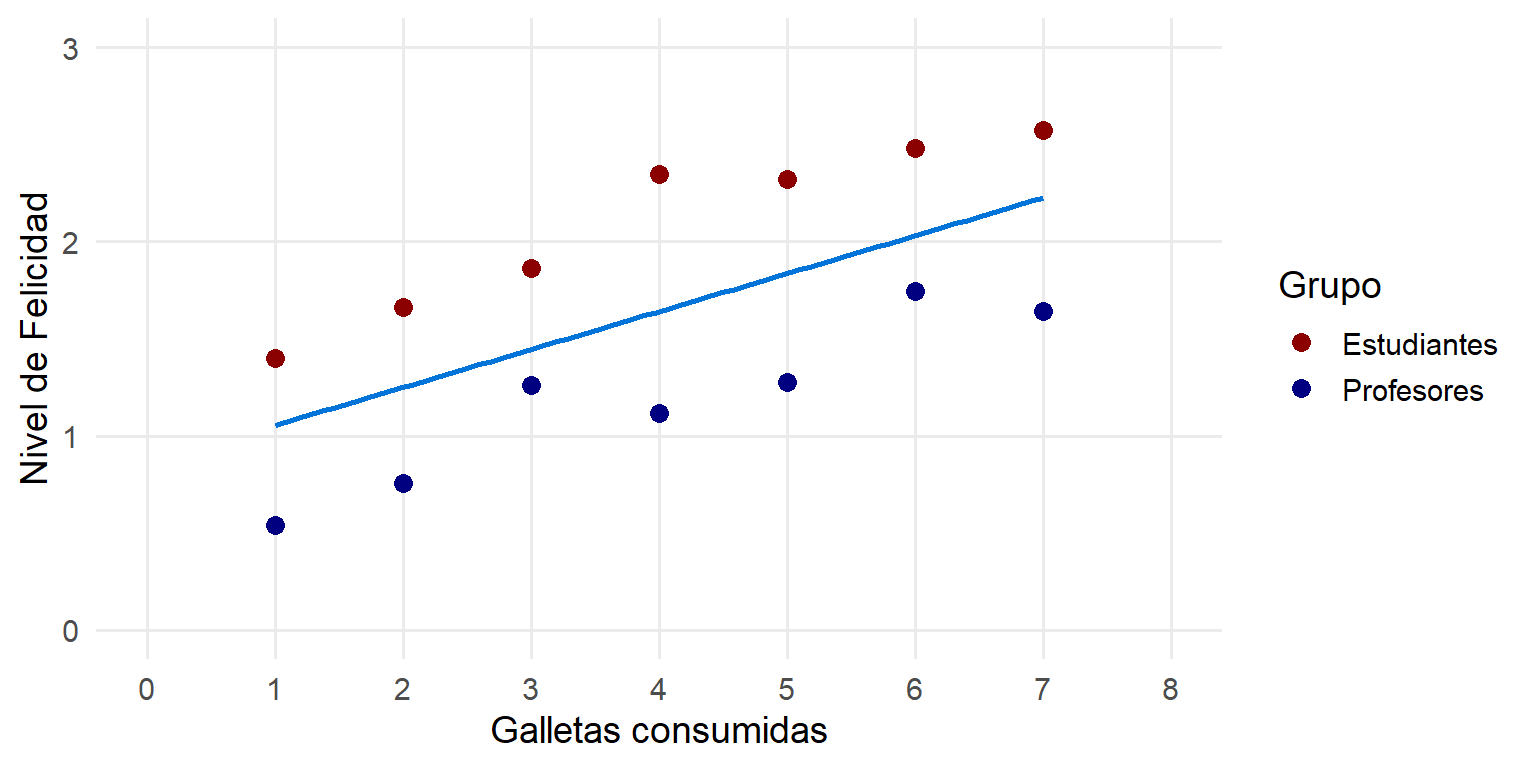
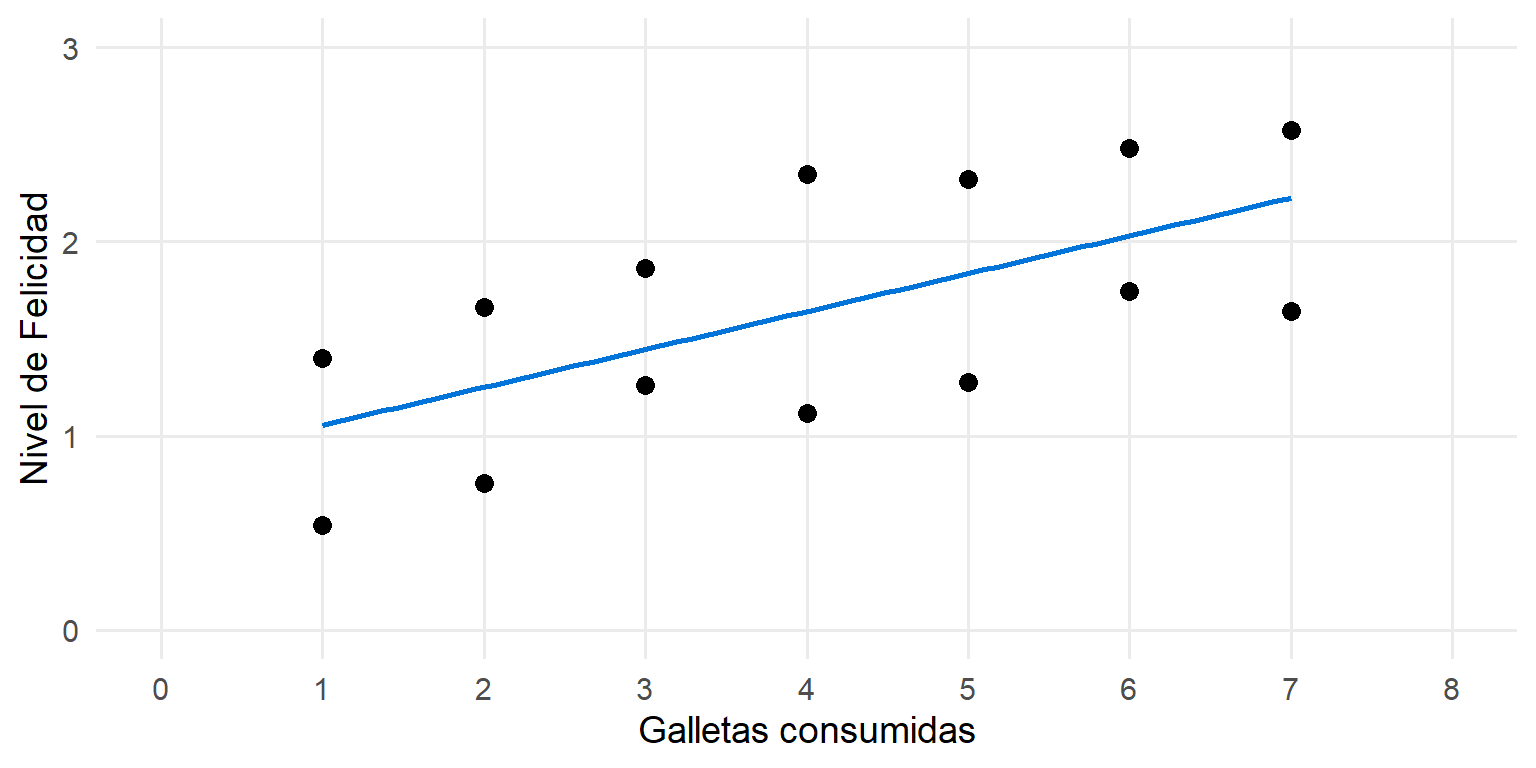
Finihing slide 08

diff --git a/diapositivas/08_reg_lin/index.html b/diapositivas/08_reg_lin/index.html
@@ -1366,18 +1366,110 @@ y &amp;= \color{#0074D9}{\text{Modelo}} + \color{#FF851B}{\text{Error}} \\
 <h2>Variables Categóricas vs Variables Continuas</h2>
 
 <img data-src="img/slider-switch-annotated-80.jpg" style="width:100.0%" class="r-stretch quarto-figure-center"></section>
-<section id="ejemplo-de-felicidad-y-galletas" class="slide level2">
-<h2>Ejemplo de felicidad y galletas</h2>
+<section id="galletas-felicidad-estudiantes-y-profesores" class="slide level2 medium">
+<h2>Galletas, Felicidad, Estudiantes y Profesores</h2>
+<div class="tbl-classic tbl-larger center-text">
+<div class="cell">
+<div class="cell-output-display">
+<table class="table" data-quarto-postprocess="true" style="font-size: 25px; margin-left: auto; margin-right: auto;">
+<thead>
+<tr class="header">
+<th style="text-align: right;" data-quarto-table-cell-role="th">galletas</th>
+<th style="text-align: right;" data-quarto-table-cell-role="th">felicidad</th>
+<th style="text-align: right;" data-quarto-table-cell-role="th">estudiante</th>
+</tr>
+</thead>
+<tbody>
+<tr class="odd">
+<td style="text-align: right;">1</td>
+<td style="text-align: right;">0.5379049</td>
+<td style="text-align: right;">0</td>
+</tr>
+<tr class="even">
+<td style="text-align: right;">2</td>
+<td style="text-align: right;">0.7539645</td>
+<td style="text-align: right;">0</td>
+</tr>
+<tr class="odd">
+<td style="text-align: right;">3</td>
+<td style="text-align: right;">1.2617417</td>
+<td style="text-align: right;">0</td>
+</tr>
+<tr class="even">
+<td style="text-align: right;">4</td>
+<td style="text-align: right;">1.1141017</td>
+<td style="text-align: right;">0</td>
+</tr>
+<tr class="odd">
+<td style="text-align: right;">5</td>
+<td style="text-align: right;">1.2758575</td>
+<td style="text-align: right;">0</td>
+</tr>
+<tr class="even">
+<td style="text-align: right;">6</td>
+<td style="text-align: right;">1.7430130</td>
+<td style="text-align: right;">0</td>
+</tr>
+<tr class="odd">
+<td style="text-align: right;">7</td>
+<td style="text-align: right;">1.6421832</td>
+<td style="text-align: right;">0</td>
+</tr>
+<tr class="even">
+<td style="text-align: right;">1</td>
+<td style="text-align: right;">1.3969878</td>
+<td style="text-align: right;">1</td>
+</tr>
+<tr class="odd">
+<td style="text-align: right;">2</td>
+<td style="text-align: right;">1.6626294</td>
+<td style="text-align: right;">1</td>
+</tr>
+<tr class="even">
+<td style="text-align: right;">3</td>
+<td style="text-align: right;">1.8608676</td>
+<td style="text-align: right;">1</td>
+</tr>
+<tr class="odd">
+<td style="text-align: right;">4</td>
+<td style="text-align: right;">2.3448164</td>
+<td style="text-align: right;">1</td>
+</tr>
+<tr class="even">
+<td style="text-align: right;">5</td>
+<td style="text-align: right;">2.3219628</td>
+<td style="text-align: right;">1</td>
+</tr>
+<tr class="odd">
+<td style="text-align: right;">6</td>
+<td style="text-align: right;">2.4801543</td>
+<td style="text-align: right;">1</td>
+</tr>
+<tr class="even">
+<td style="text-align: right;">7</td>
+<td style="text-align: right;">2.5721365</td>
+<td style="text-align: right;">1</td>
+</tr>
+</tbody>
+</table>
 
-<img data-src="index_files/figure-revealjs/unnamed-chunk-53-1.png" width="768" class="r-stretch quarto-figure-center"></section>
+
+</div>
+</div>
+</div>
+</section>
+<section id="galletas-y-felicidad-1" class="slide level2 medium">
+<h2>Galletas y Felicidad</h2>
+
+<img data-src="index_files/figure-revealjs/unnamed-chunk-54-1.png" width="768" class="r-stretch quarto-figure-center"></section>
 <section id="qué-pasa-si-diferenciamos-entre-profesores-y-estudiantes" class="slide level2">
 <h2>¿Qué pasa si diferenciamos entre profesores y estudiantes?</h2>
 
-<img data-src="index_files/figure-revealjs/unnamed-chunk-54-1.png" width="768" class="r-stretch quarto-figure-center"></section>
+<img data-src="index_files/figure-revealjs/unnamed-chunk-55-1.png" width="768" class="r-stretch quarto-figure-center"></section>
 <section id="ambos-grupos-parecen-tener-pendientes-diferentes" class="slide level2">
 <h2>Ambos grupos parecen tener pendientes diferentes…</h2>
 
-<img data-src="index_files/figure-revealjs/unnamed-chunk-55-1.png" width="768" class="r-stretch quarto-figure-center"></section>
+<img data-src="index_files/figure-revealjs/unnamed-chunk-56-1.png" width="768" class="r-stretch quarto-figure-center"></section>
 <section id="variables-categóricas-1" class="slide level2 medium">
 <h2>Variables Categóricas</h2>
 <p>¿Cómo interpretar el modelo si agregamos una variable categórica <span class="math inline">\(Estudiante\)</span> que sea igual a 1 si la observación es de un estudiante?</p>
@@ -1393,6 +1485,9 @@ y &amp;= \color{#0074D9}{\text{Modelo}} + \color{#FF851B}{\text{Error}} \\
 <p><span class="math display">\[\widehat{Felicidad}=\hat{\beta_0}+\hat{\beta_1}\times Galletas+\hat{\beta_2} \times Estudiante\]</span></p>
 <p>El intercepto para las observaciones de los estudiantes será <span class="math inline">\(\hat{\beta_0}+\hat{\beta_2}\)</span> porque <span class="math inline">\(Estudiante=1\)</span></p>
 <p><span class="math display">\[\widehat{Felicidad}=\color{#FF851B}{\hat{\beta_0}}+\hat{\beta_1}\times Galletas+\color{#FF851B}{\hat{\beta_2}}\]</span></p>
+<div class="fragment">
+<p>En promedio, los estudiantes tienen un nivel de felicidad <span class="math inline">\(\hat{\beta_2}\)</span> más alto que los profesores (<span class="math inline">\(\hat{\beta_2}&gt;0\)</span> según la gráfica)</p>
+</div>
 </section>
 <section id="estimar-una-regresión-múltiple-en-r" class="slide level2 medium">
 <h2>Estimar una regresión múltiple en R</h2>
@@ -1537,7 +1632,7 @@ y &amp;= \color{#0074D9}{\text{Modelo}} + \color{#FF851B}{\text{Error}} \\
 <h2>Volvamos a Anscombe…</h2>
 <p>Si estimamos <span class="math inline">\(\hat{y}=\hat{\beta_0} + \hat{\beta_1} \times x\)</span></p>
 
-<img data-src="index_files/figure-revealjs/unnamed-chunk-62-1.png" width="576" class="r-stretch quarto-figure-center"><p>En cada regresión, <span class="math inline">\(\hat{\beta_1}=0.5\)</span>. <span class="hl hl-dred">Graficar los datos es crucial!</span></p>
+<img data-src="index_files/figure-revealjs/unnamed-chunk-63-1.png" width="576" class="r-stretch quarto-figure-center"><p>En cada regresión, <span class="math inline">\(\hat{\beta_1}=0.5\)</span>. <span class="hl hl-dred">Graficar los datos es crucial!</span></p>
 <div class="footer footer-default">
 
 </div>
